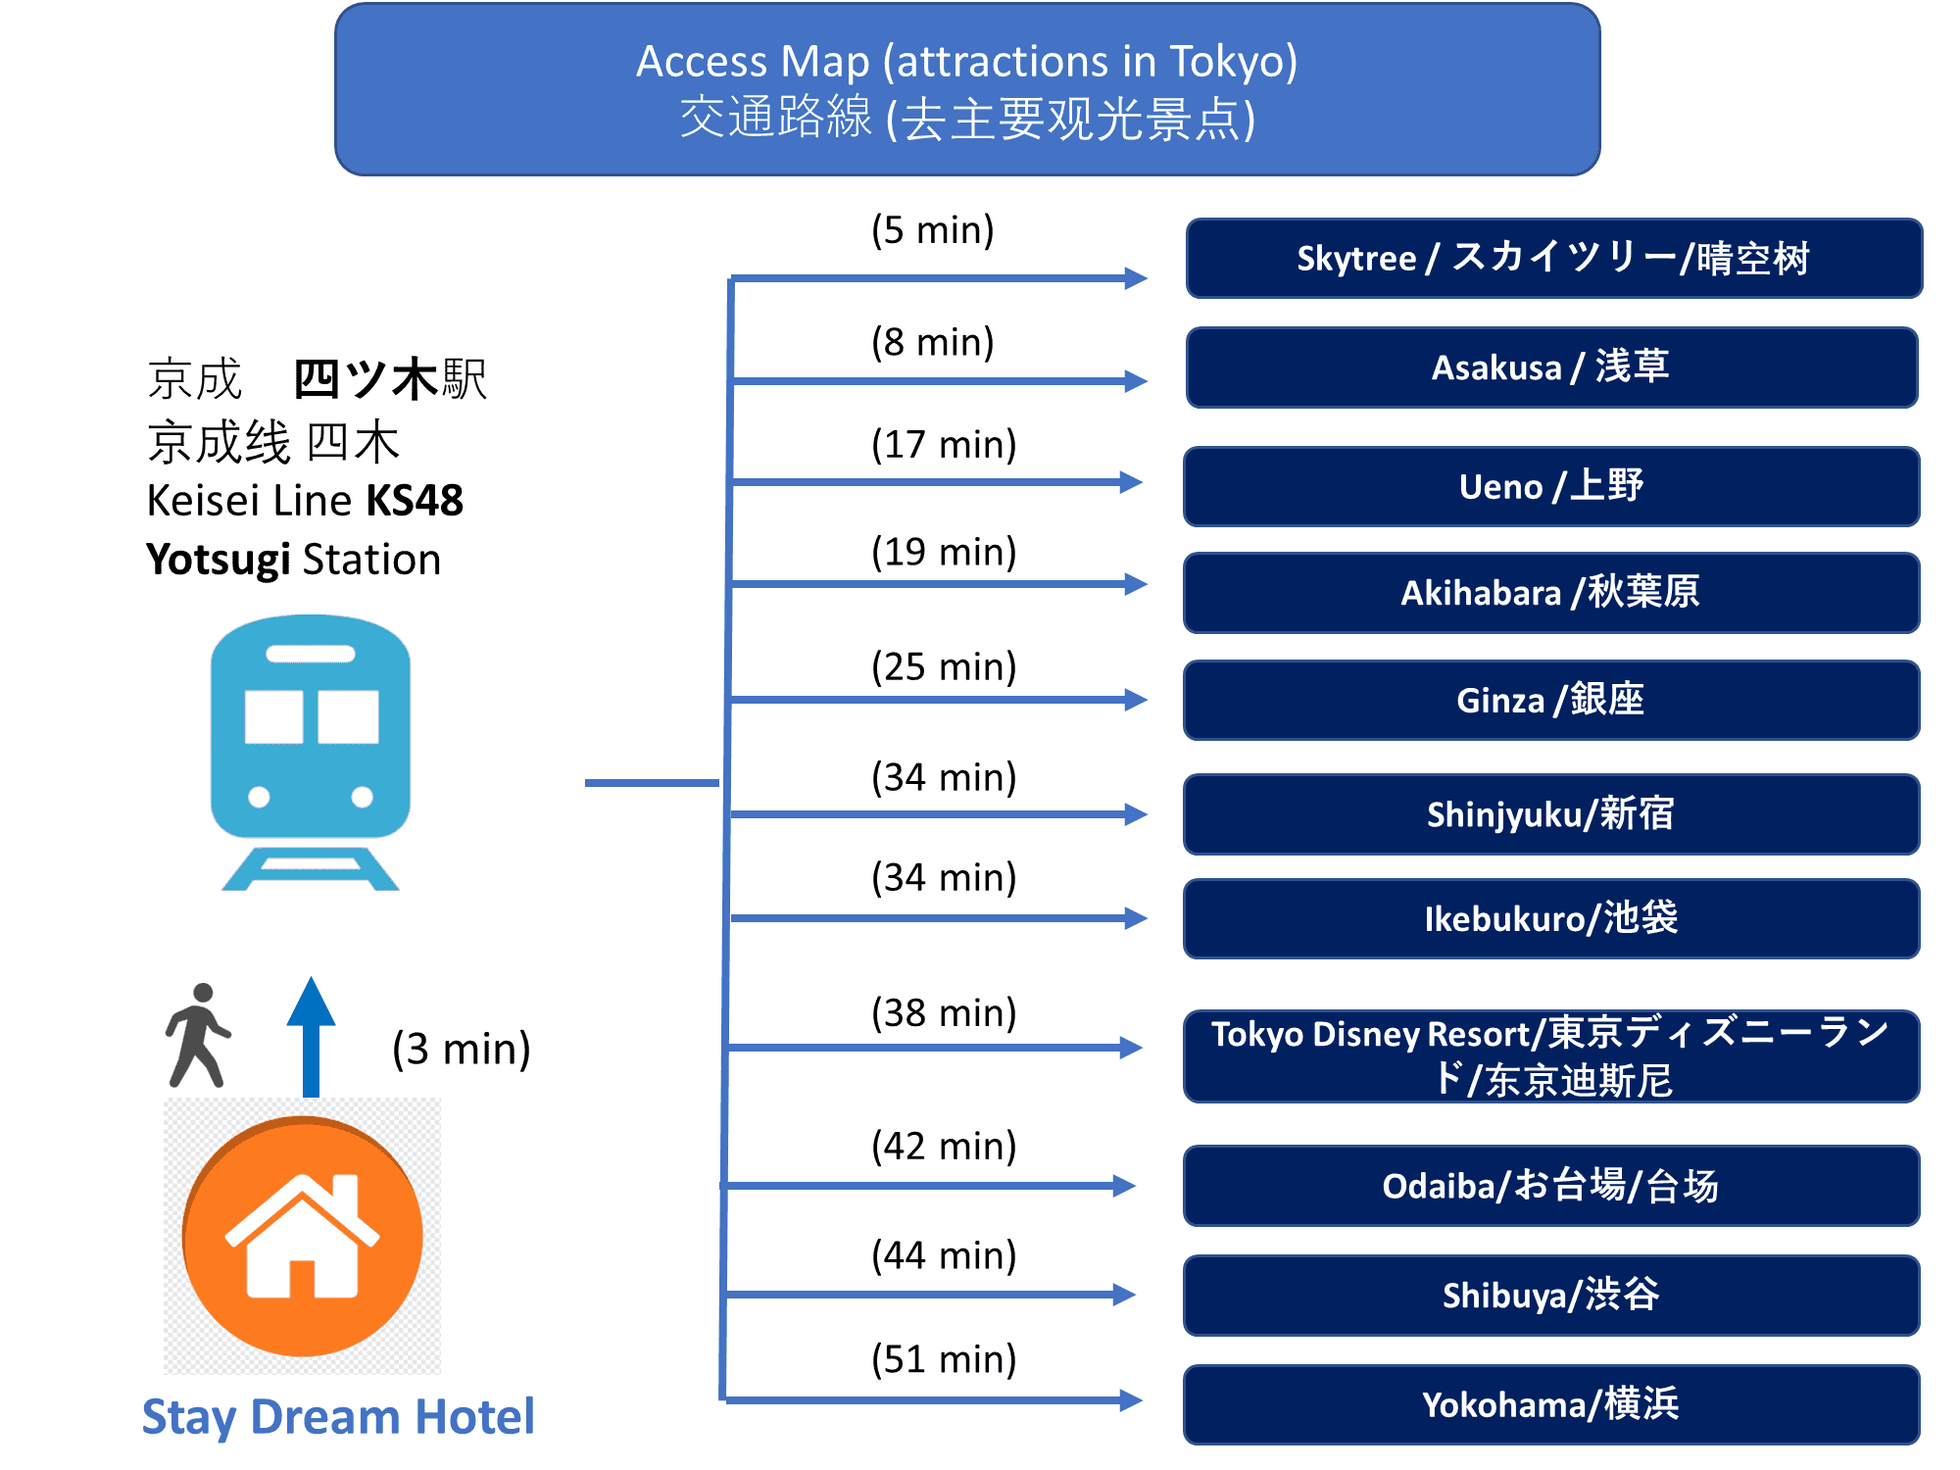
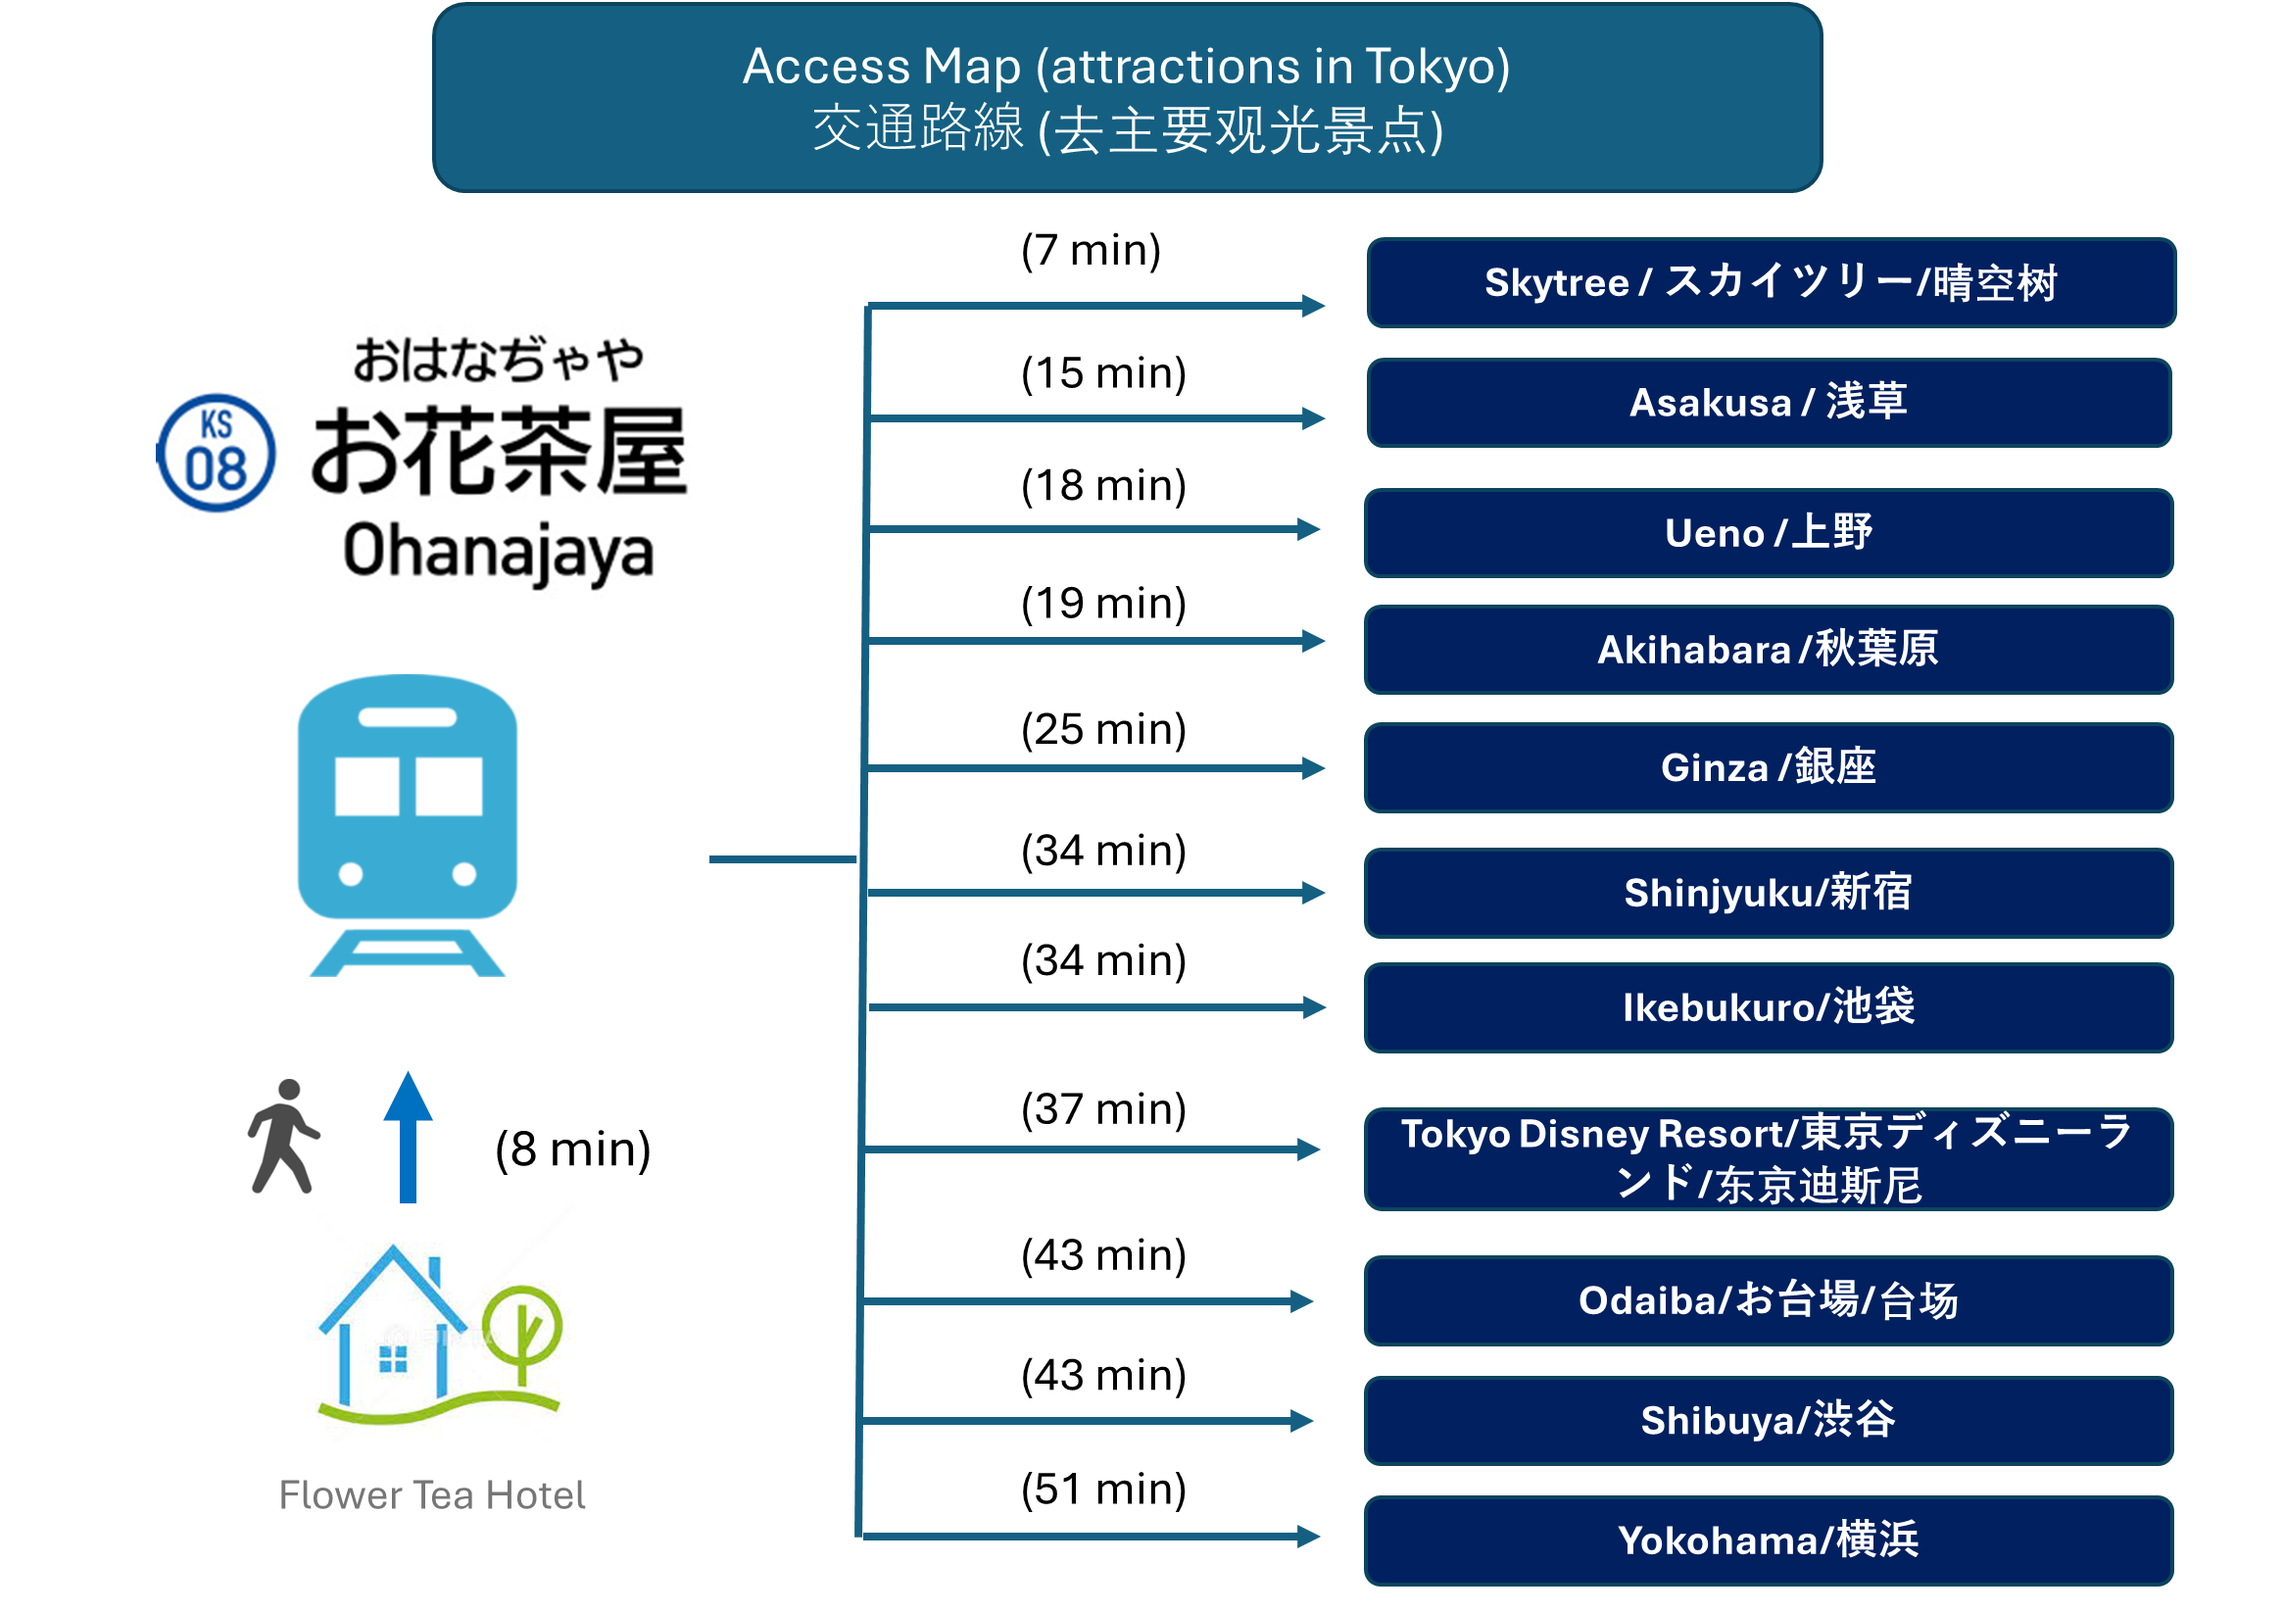
hotel-jp

Changed region(s): [[0.155, 0.0, 0.992, 1.0], [0.062, 0.2147, 0.31, 0.6133], [0.062, 0.644, 0.279, 0.9813]]

diff --git a/ja/index.html b/ja/index.html
@@ -5,15 +5,15 @@
   <meta charset="utf-8">
   <meta http-equiv="x-ua-compatible" content="ie=edge">
 
-  <title>東京浅草付近民泊旅館--Flower Tea Hotel-一軒家貸切-5LDK</title>
+  <title>東京浅草付近旅館--Flower Tea Hotel-一軒家貸切-5LDK,120平米</title>
 
-  <meta name="Keywords" content="民泊,一軒家貸切, 戸建, 旅館, 海外旅行, 長期滞在, 家族旅行, 東京" />
+  <meta name="Keywords" content="民泊,一軒家貸切, 広い, パーティー可, 戸建, 旅館, 海外旅行, 長期滞在, 家族旅行, 東京" />
   <meta name="description"
-    content="東京で一軒家貸切の民泊。駅まで徒歩3分、観光地浅草、スカイツリーに近いです。海外観光客を親切にサポートします。家族とグループの旅行に最適です。長期滞在も可能です。10名まで。無制限光WIFI、キッチン設備完備。5LDKで部屋数が多いです。 あなたの東京の家です。Flower Tea Hotel" />
+    content="東京で一軒家貸切の旅館。駅まで徒歩8分、観光地浅草、スカイツリーに近いです。海外観光客を親切にサポートします。家族とグループの旅行に最適です。長期滞在も可能です。15名まで。無制限光WIFI、キッチン設備完備。120平米です。5LDKで広いです。 Flower Tea Hotel" />
 
   <meta property="og:url" content="https://flowerteahotel.com/ja/index.html"
     data-wovn-src:-original-content="https://flowerteahotel.com/ja/index.html">
-  <meta property="og:site_name" content="東京5LDK戸建民泊, 交通便利" data-wovn-src:-original-content="東京5LDK戸建民泊">
+  <meta property="og:site_name" content="東京5LDK戸建民泊, 交通便利, 120平米" data-wovn-src:-original-content="東京5LDK戸建民泊">
   <meta name="twitter:card" content="summary_large_image">
   <meta property="og:image" content="https://flowerteahotel.com/assets/img/dining/hotel-jp.jpg">
 
@@ -201,14 +201,14 @@
               <span>for family and group together</span>
               <h2>旅行中の家族にとって安心で快適な家</h2>
               <div class="caption-details">
-                <p class="pera-dtails">最大10名、１グループ専用
+                <p class="pera-dtails">最大15名、１グループ専用
                 </p>
                 <div class="box_voice">
                   <div class="features ">
                     <ul>
-                      <li>1. 独立な戸建,5LDK, 95㎡</li>
+                      <li>1. 独立な戸建,5LDK, 120㎡</li>
                       <li>2. 交通便利 & 静かな環境 </li>
-                      <li>3. 現地の生活を体験できる </li>
+                      <li>3. パーティー可 </li>
 
                     </ul>
                   </div>
@@ -340,12 +340,12 @@
               <h3>主な特徴</h3>
             </div>
             <p>★独立な戸建: 東京の一軒家をまるまる貸し切り。<br>
-              ★特徴: 5LDK、 2つトイレ、 静かな環境。<br>
-              ★場所: 最寄りの駅まで徒歩3分、浅草やスカイツリーの観光地に近い。<br>
-              ★追加情報: Flower Tea Hotel は一般の民泊より厳しい基準を満たし、 <strong class="title-yellowline">旅館資格</strong>を取得しております。<br>
+              ★特徴: 5LDK、 2つトイレ、2つシャワー、120平米。<br>
+              ★場所: 最寄りの駅まで徒歩8分、空港と浅草やスカイツリーの観光地に近い。<br>
+              ★追加情報: Flower Tea Hotel は一般の民泊より厳しい基準を満たした、 <strong class="title-yellowline">旅館資格</strong>を取得しております。<br>
 
               東京のホテルの<strong class="title-yellowline">半額以下</strong>の手頃な価格設定。<br>
-              家族やグループに最適なホームステイ。
+              家族やグループに最適なホームステイ。パーティー可。
 
 
             </p>
@@ -360,20 +360,20 @@
             <div class="archivment-front">
               <h3>交通便利</h3>
             </div>
-            <p>1. 旅館は最寄りの駅から徒歩3分です。<br>
+            <p>1. 旅館は最寄りの駅から徒歩8分です。<br>
               2. 成田空港と羽田空港から1時間未満です。<br>
               3. 電車や地下鉄で有名な観光スポットまでの距離は次のとおりです：<br>
-              スカイツリー：5分<br>
-              浅草：8分<br>
+              スカイツリー：7分<br>
+              浅草：15分<br>
               上野：17分<br>
               秋葉原：19分<br>
-              新宿：25分<br>
-              東京：29分<br>
+              東京：25分<br>
+              新宿：34分<br>
               渋谷：34分<br>
-              東京ディズニーランド：38分
+              東京ディズニーランド：37分
             </p>
           </div>
-          <img class="img-fluid" src="../assets/img/dining/accessspots.png" alt>
+          <img class="img-fluid" src="../assets/img/access/accessallspots.png" alt>
         </div>
       </div>
 
